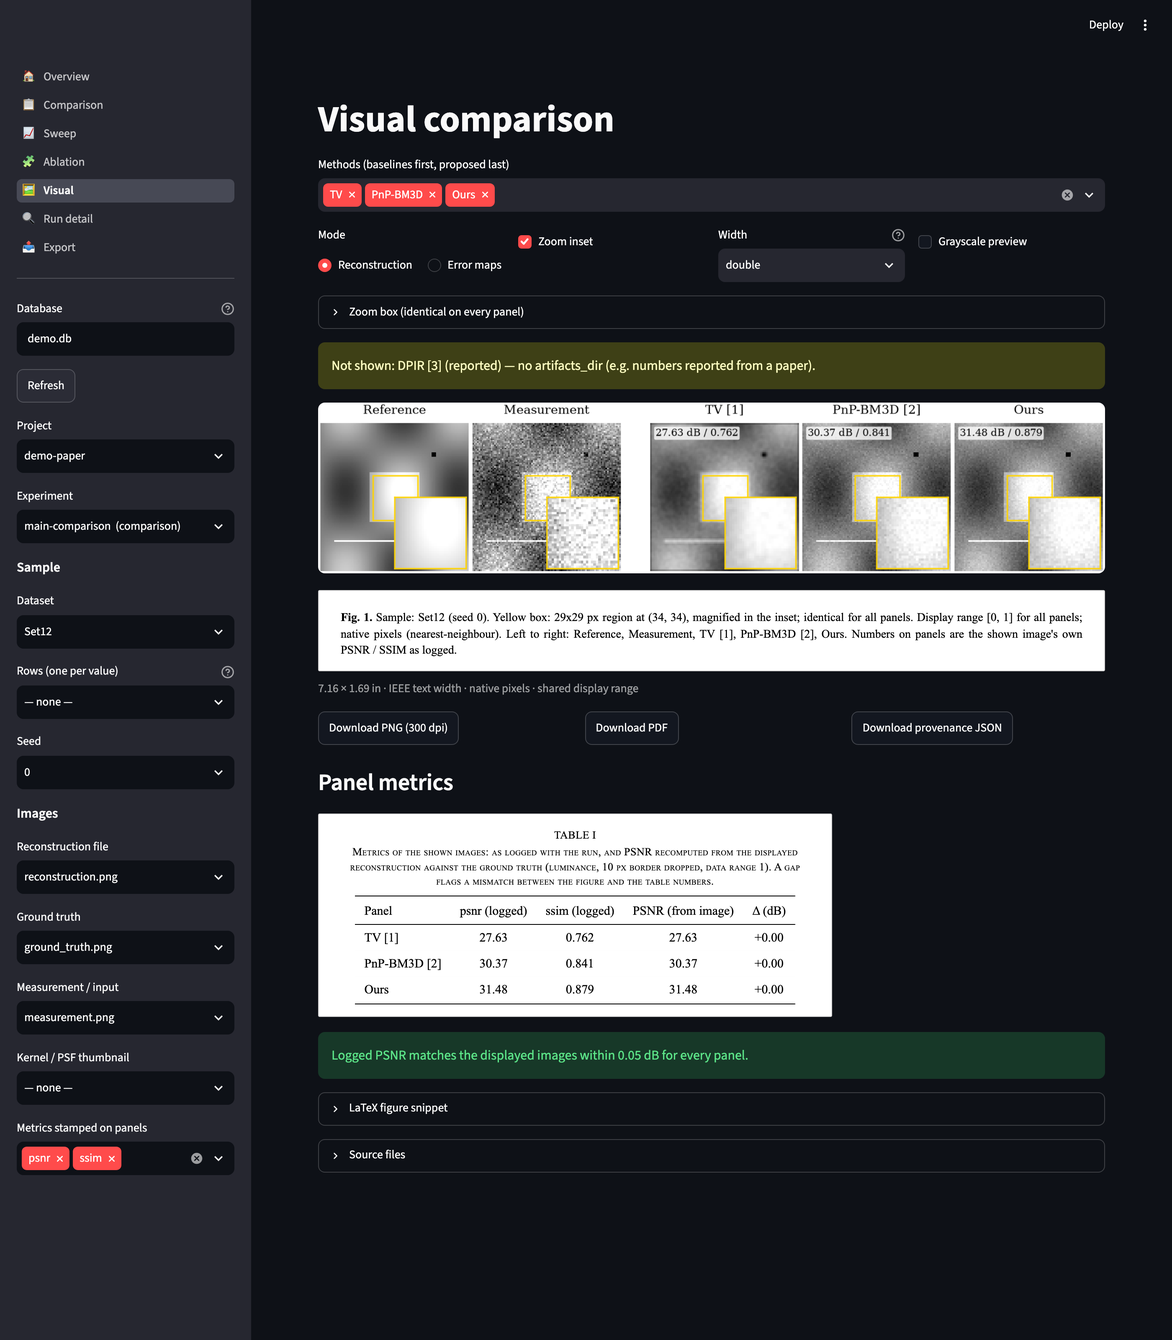
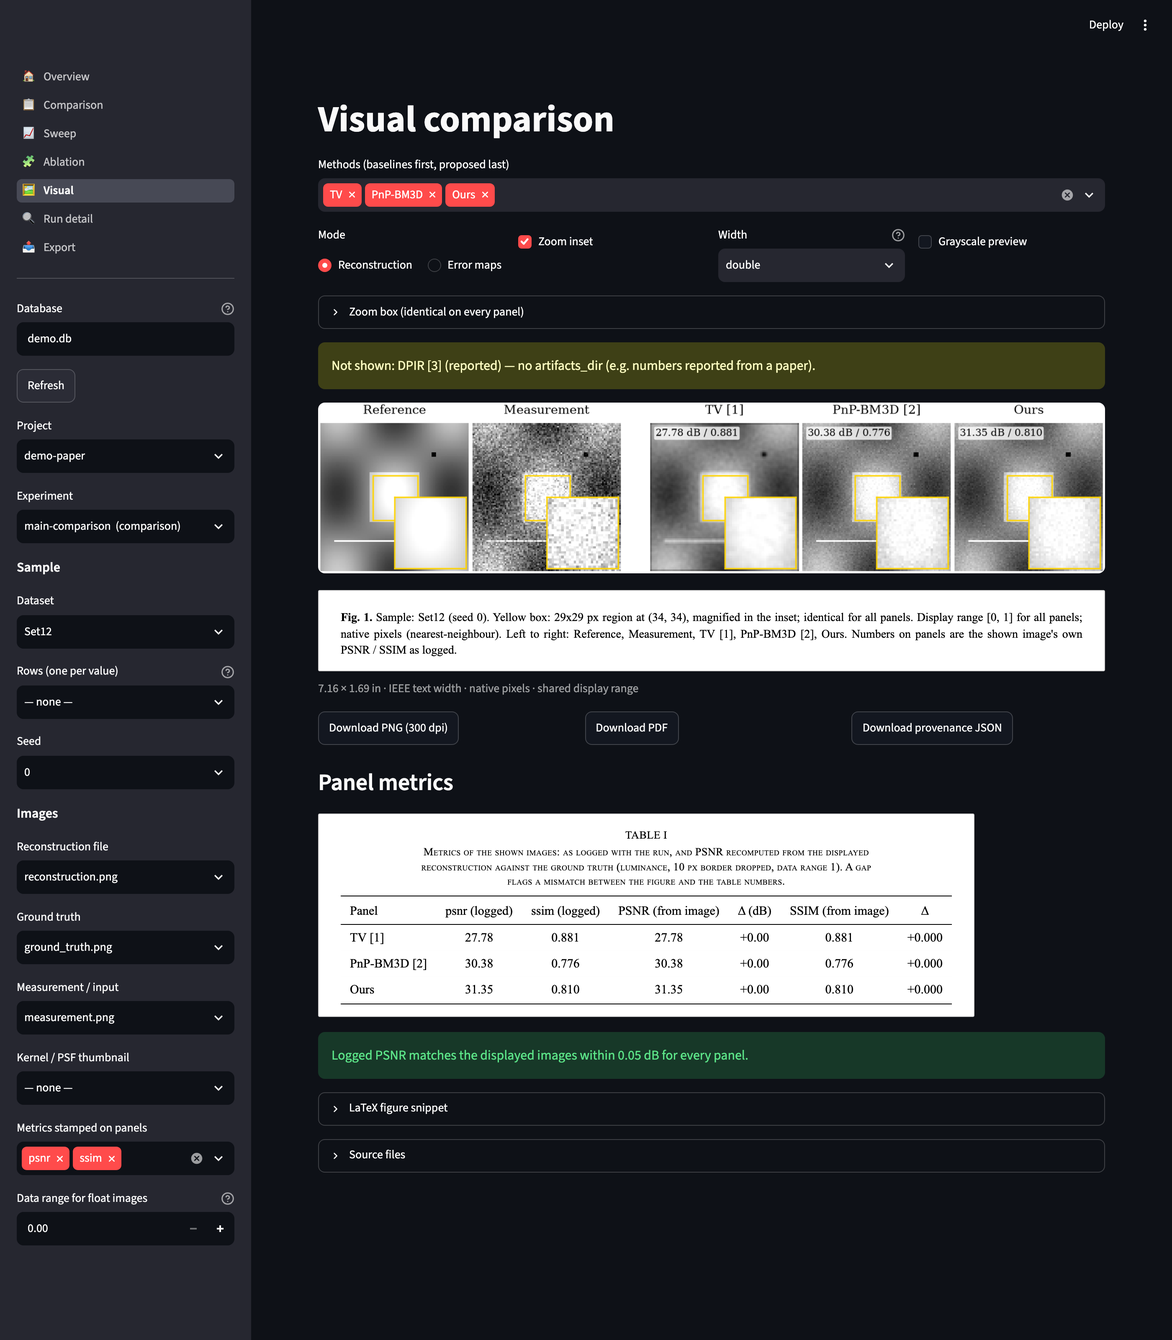
fix(low): failed-runs toggle, local timestamps, bool metrics, SSIM
- Comparison page: the inconsistent 'Include failed runs' toggle is gone;
  failed runs are counted in the caption and never enter a results table
- run_records returns timezone-aware UTC timestamps; Overview and Run detail
  display local time and say so
- bool metrics are rejected with guidance (flags belong in config/tags, rates
  as explicit 0/1)
- export/visual.ssim: Gaussian-window SSIM (Wang et al. 2004, sigma 1.5,
  K1/K2 0.01/0.03) on luminance; panel_ssim with the lab's border crop; the
  Visual audit table now recomputes SSIM as well as PSNR; the demo logs the
  SSIM measured on the saved image so figures and tables agree
- docs (integration guide, CLAUDE.md) updated; demo data, sample figures,
  screenshots and tour GIF regenerated; 114 tests

diff --git a/src/results_tracker/export/visual.py b/src/results_tracker/export/visual.py
@@ -658,6 +658,43 @@ def panel_psnr(img: np.ndarray, ref: np.ndarray, border: int = METRIC_BORDER_CRO
     return psnr(a, b, data_range)
 
 
+def _gaussian_blur(x: np.ndarray, sigma: float = 1.5, radius: int = 5) -> np.ndarray:
+    """Separable Gaussian filter, 'valid' region (no border padding), like skimage's SSIM window."""
+    t = np.arange(-radius, radius + 1, dtype=np.float64)
+    g = np.exp(-(t**2) / (2 * sigma**2))
+    g /= g.sum()
+    x = x.astype(np.float64)
+    out = np.apply_along_axis(lambda v: np.convolve(v, g, mode="valid"), 0, x)
+    out = np.apply_along_axis(lambda v: np.convolve(v, g, mode="valid"), 1, out)
+    return out
+
+
+def ssim(img: np.ndarray, ref: np.ndarray, data_range: float = 1.0, sigma: float = 1.5, radius: int = 5) -> float:
+    """Mean SSIM on luminance with an 11-tap Gaussian window (sigma 1.5), K1 = 0.01, K2 = 0.03 (Wang et al. 2004).
+
+    Matches skimage.metrics.structural_similarity(gaussian_weights=True, sigma=1.5, use_sample_covariance=False)
+    up to border handling (this implementation drops the window border)."""
+    a, b = luminance(img).astype(np.float64), luminance(ref).astype(np.float64)
+    if a.shape != b.shape:
+        raise ValueError(f"shape mismatch {a.shape} vs {b.shape}")
+    if min(a.shape) < 2 * radius + 1:
+        raise ValueError("image too small for an 11x11 SSIM window")
+    c1, c2 = (0.01 * data_range) ** 2, (0.03 * data_range) ** 2
+    mu_a, mu_b = _gaussian_blur(a, sigma, radius), _gaussian_blur(b, sigma, radius)
+    var_a = _gaussian_blur(a * a, sigma, radius) - mu_a**2
+    var_b = _gaussian_blur(b * b, sigma, radius) - mu_b**2
+    cov = _gaussian_blur(a * b, sigma, radius) - mu_a * mu_b
+    num = (2 * mu_a * mu_b + c1) * (2 * cov + c2)
+    den = (mu_a**2 + mu_b**2 + c1) * (var_a + var_b + c2)
+    return float(np.mean(num / den))
+
+
+def panel_ssim(img: np.ndarray, ref: np.ndarray, border: int = METRIC_BORDER_CROP, data_range: float = 1.0) -> float:
+    a, b = luminance(img), luminance(ref)
+    bc = border if min(a.shape) > 2 * border + 12 else 0
+    return ssim(a[bc:a.shape[0] - bc, bc:a.shape[1] - bc], b[bc:b.shape[0] - bc, bc:b.shape[1] - bc], data_range)
+
+
 def panel_metrics_rows(
     records: Sequence[Mapping[str, Any]],
     panels: Sequence[Panel],
@@ -665,14 +702,18 @@ def panel_metrics_rows(
     defs: Mapping[str, Mapping[str, Any]],
     metrics: Sequence[str] = ("psnr", "ssim"),
     tolerance_db: float = 0.05,
+    tolerance_ssim: float = 0.005,
 ) -> tuple[list[str], list[list[str]], list[str]]:
-    """Rows for a 'panel metrics' table: logged metrics per shown run plus PSNR recomputed from the image.
+    """Rows for a 'panel metrics' table: logged metrics per shown run plus PSNR (and SSIM when logged)
+    recomputed from the image.
 
-    Returns (headers, rows, warnings). A gap between logged and recomputed PSNR beyond `tolerance_db` is
+    Returns (headers, rows, warnings). A gap between logged and recomputed values beyond the tolerances is
     flagged: it usually means the logged number was computed on a different image, crop or data range."""
     by_id = {r.get("run_id"): r for r in records if r.get("run_id") is not None}
     by_title = {(r.get("method_label") or r.get("method")): r for r in records}
-    headers = ["Panel"] + [f"{m} (logged)" for m in metrics] + (["PSNR (from image)", "Δ (dB)"] if reference is not None else [])
+    want_ssim = reference is not None and "ssim" in metrics
+    headers = ["Panel"] + [f"{m} (logged)" for m in metrics] + (["PSNR (from image)", "Δ (dB)"] if reference is not None else []) \
+        + (["SSIM (from image)", "Δ"] if want_ssim else [])
     rows: list[list[str]] = []
     warnings: list[str] = []
     for p in panels:
@@ -707,5 +748,21 @@ def panel_metrics_rows(
                 if abs(d) > tolerance_db:
                     warnings.append(f"{p.title}: logged PSNR {float(lv):.2f} dB vs {comp:.2f} dB recomputed from the shown image "
                                     f"(Δ {d:+.2f} dB). Different image, crop, border or data range?")
+            if want_ssim:
+                try:
+                    cs = panel_ssim(p.image, reference.image)
+                except ValueError:
+                    row += ["—", "—"]
+                else:
+                    row.append(f"{cs:.3f}")
+                    ls = logged.get("ssim")
+                    if ls is None:
+                        row.append("—")
+                    else:
+                        ds = cs - float(ls)
+                        row.append(f"{ds:+.3f}")
+                        if abs(ds) > tolerance_ssim:
+                            warnings.append(f"{p.title}: logged SSIM {float(ls):.3f} vs {cs:.3f} recomputed from the shown image "
+                                            f"(Δ {ds:+.3f}). Different implementation, window or data range?")
         rows.append(row)
     return headers, rows, warnings

diff --git a/tests/test_visual.py b/tests/test_visual.py
@@ -10,7 +10,8 @@ from results_tracker import aggregate as agg  # noqa: E402
 from results_tracker.export.figures import figure_tex, ieee_preamble, to_grayscale_png, figure_bytes  # noqa: E402
 from results_tracker.export.visual import (  # noqa: E402
     IEEE_TEXTWIDTH_IN, Panel, PanelRow, build_panels, build_rows, crop, error_map, list_image_files, load_image,
-    guess_roles, luminance, panel_metrics_rows, panel_psnr, psnr, reconstruction_figure, save_visual, zoom_region,
+    guess_roles, luminance, panel_metrics_rows, panel_psnr, panel_ssim, psnr, reconstruction_figure, save_visual, ssim,
+    zoom_region,
 )
 
 DEFS = {"psnr": {"unit": "dB", "higher_is_better": True, "fmt": ".2f"}, "ssim": {"unit": "", "higher_is_better": True, "fmt": ".3f"}}
@@ -240,10 +241,11 @@ def test_panel_psnr_and_metrics_rows(art):
     with pytest.raises(ValueError):
         panel_psnr(ref.image, ref.image[:10])
     headers, rows, warns = panel_metrics_rows(recs, panels, ref, DEFS, metrics=["psnr", "ssim"])
-    assert headers == ["Panel", "psnr (logged)", "ssim (logged)", "PSNR (from image)", "Δ (dB)"]
+    assert headers == ["Panel", "psnr (logged)", "ssim (logged)", "PSNR (from image)", "Δ (dB)", "SSIM (from image)", "Δ"]
     assert [r[0] for r in rows] == ["TV [1]", "Ours"] and rows[0][1] == "30.00" and rows[0][2] == "0.900"
-    # the fixture's logged numbers are invented, so they must be flagged against the recomputed ones
-    assert len(warns) == 2 and all("recomputed" in w for w in warns)
+    # the fixture's logged numbers are invented, so PSNR and SSIM must both be flagged against the recomputed ones
+    assert len([w for w in warns if "PSNR" in w]) == 2 and len([w for w in warns if "SSIM" in w]) == 2
+    assert all("recomputed" in w for w in warns)
     # no reference -> no computed columns, no warnings
     h2, r2, w2 = panel_metrics_rows(recs, panels, None, DEFS, metrics=["psnr"])
     assert h2 == ["Panel", "psnr (logged)"] and len(r2[0]) == 2 and w2 == []
@@ -262,3 +264,29 @@ def test_make_visual_records_the_seed_and_flags_mixed_seeds(art, tmp_path):
     two[1] = {**two[1], "seed": 1}
     vr2 = make_visual(two, DEFS, dataset="D")
     assert vr2.spec.seed is None and any("different seeds" in p for p in vr2.problems)
+
+
+def test_ssim_properties():
+    rng = np.random.default_rng(0)
+    img = np.clip(0.5 + 0.3 * np.sin(np.linspace(0, 8, 64))[None, :] * np.cos(np.linspace(0, 6, 64))[:, None], 0, 1)
+    assert ssim(img, img) == pytest.approx(1.0)
+    noisy_small = np.clip(img + rng.normal(0, 0.02, img.shape), 0, 1)
+    noisy_big = np.clip(img + rng.normal(0, 0.15, img.shape), 0, 1)
+    s_small, s_big = ssim(noisy_small, img), ssim(noisy_big, img)
+    assert 1.0 > s_small > s_big > 0.0
+    shifted = np.roll(img, 7, axis=1)  # same content, misaligned: structure lost, scores below even heavy noise
+    assert ssim(shifted, img) < s_small  # structure matters more than a little noise
+    assert ssim(np.stack([img] * 3, axis=2), img) == pytest.approx(1.0)  # RGB vs gray via luminance
+    with pytest.raises(ValueError):
+        ssim(img, img[:10])
+    with pytest.raises(ValueError):
+        ssim(np.zeros((8, 8)), np.zeros((8, 8)))  # too small for the window
+    assert 0 < panel_ssim(noisy_small, img) <= 1
+
+
+def test_panel_metrics_include_ssim_when_logged(art):
+    _, recs = art
+    panels, ref, _ = _panels(art)
+    headers, rows, warns = panel_metrics_rows(recs, panels, ref, DEFS, metrics=["psnr", "ssim"])
+    assert headers[-2:] == ["SSIM (from image)", "Δ"] and all(len(r) == len(headers) for r in rows)
+    assert any("SSIM" in w for w in warns)  # the fixture's invented ssim of 0.9 does not match the image

diff --git a/src/results_tracker/demo.py b/src/results_tracker/demo.py
@@ -49,7 +49,7 @@ def _scene(dataset: str, seed: int, n: int = 96):
     return np.clip(gt, 0, 1), np.random.default_rng(hash((dataset, seed)) % (2**32))
 
 
-def _write_artifacts(root: Path, method: str, dataset: str, seed: int, psnr: float, rng: random.Random) -> tuple[str, float]:
+def _write_artifacts(root: Path, method: str, dataset: str, seed: int, psnr: float, rng: random.Random) -> tuple[str, float, float]:
     """Reconstruction / error map / measurement / ground truth PNGs plus a log, all from one shared scene.
 
     The measurement and ground truth are identical across methods for a given dataset, so the Visual page
@@ -64,7 +64,7 @@ def _write_artifacts(root: Path, method: str, dataset: str, seed: int, psnr: flo
         from PIL import Image
     except ImportError:  # pragma: no cover
         (d / "log.txt").write_text(f"{method} on {dataset}, seed {seed}\nfinal psnr {psnr:.2f}\n")
-        return str(d), psnr
+        return str(d), psnr, 0.75 + (psnr - 27) * 0.03
 
     def save(arr, name):
         Image.fromarray((np.clip(arr, 0, 1) * 255).round().astype("uint8")).save(d / name)
@@ -83,14 +83,16 @@ def _write_artifacts(root: Path, method: str, dataset: str, seed: int, psnr: flo
     save(recon, "reconstruction.png")
     save(np.abs(recon - gt) / 0.3, "error_map.png")
     # the number we log is the one a reader can recompute from the files: 8-bit images, 10 px border dropped
-    from .export.visual import load_image, panel_psnr
+    from .export.visual import load_image, panel_psnr, panel_ssim
 
-    measured = panel_psnr(load_image(d / "reconstruction.png"), load_image(d / "ground_truth.png"))
+    rec_img, gt_img = load_image(d / "reconstruction.png"), load_image(d / "ground_truth.png")
+    measured = panel_psnr(rec_img, gt_img)
+    measured_ssim = panel_ssim(rec_img, gt_img)
     lines = [f"method={method} dataset={dataset} seed={seed}", "iter  psnr"]
     for it in range(0, 51, 10):
         lines.append(f"{it:4d}  {measured - (50 - it) * 0.05:.2f}")
     (d / "train.log").write_text("\n".join(lines) + "\n")
-    return str(d), measured
+    return str(d), measured, measured_ssim
 
 
 def seed_demo(db=None, engine=None, rng_seed: int = 0, artifacts_dir: Optional[str] = None) -> dict[str, int]:
@@ -117,12 +119,13 @@ def seed_demo(db=None, engine=None, rng_seed: int = 0, artifacts_dir: Optional[s
             for s in SEEDS:
                 psnr = base_psnr[m] + (0.4 if ds == "Set12" else -0.3) + rng.gauss(0, 0.15)
                 art = None
+                ssim_val = 0.75 + (psnr - 27) * 0.03 + rng.gauss(0, 0.005)
                 if art_root:
-                    art, psnr = _write_artifacts(art_root, m, ds, s, psnr, rng)  # log what the image on disk shows
+                    art, psnr, ssim_val = _write_artifacts(art_root, m, ds, s, psnr, rng)  # log what the image on disk shows
                 log_run(
                     "main-comparison", project=PROJECT, experiment_type="comparison",
                     method=m, dataset=ds, seed=s, config={"lambda": 0.1, "iters": 50},
-                    metrics={"psnr": psnr, "ssim": 0.75 + (psnr - 27) * 0.03 + rng.gauss(0, 0.005),
+                    metrics={"psnr": psnr, "ssim": ssim_val,
                              "runtime_s": base_time[m] * (1 + rng.uniform(-0.1, 0.1))},
                     artifacts_dir=art, **common,
                 )

diff --git a/src/results_tracker/api.py b/src/results_tracker/api.py
@@ -12,7 +12,7 @@ import math
 import socket
 import subprocess
 import warnings
-from datetime import datetime
+from datetime import datetime, timezone
 from numbers import Number
 from typing import Any, Iterable, Optional, Sequence, Type, TypeVar, Union
 
@@ -124,6 +124,8 @@ def _clean_metrics(metrics: Optional[dict]) -> dict[str, Any]:
     out: dict[str, Any] = {}
     for k, v in (metrics or {}).items():
         v = _to_plain(v)
+        if isinstance(v, bool):
+            raise TypeError(f"metric {k!r} is a bool; log flags in `config`/`tags`, or an explicit 0/1 (int) if you mean a rate")
         if v is not None and not isinstance(v, Number):
             raise TypeError(f"metric {k!r} must be numeric or None, got {type(v).__name__}")
         out[str(k)] = v
@@ -333,6 +335,9 @@ def run_records(runs: Iterable[Run], db=None, engine=None) -> list[dict[str, Any
         m = methods.get(r.method_id)
         d = datasets.get(r.dataset_id)
         e = experiments.get(r.experiment_id)
+        ts = r.timestamp
+        if ts is not None and ts.tzinfo is None:
+            ts = ts.replace(tzinfo=timezone.utc)  # stored in UTC; SQLite drops the zone
         out.append(
             {
                 "run_id": r.id,
@@ -349,7 +354,7 @@ def run_records(runs: Iterable[Run], db=None, engine=None) -> list[dict[str, Any
                 "status": r.status.value if isinstance(r.status, RunStatus) else r.status,
                 "source": r.source,
                 "tags": list(r.tags or []),
-                "timestamp": r.timestamp,
+                "timestamp": ts,
                 "git_commit": r.git_commit,
                 "artifacts_dir": r.artifacts_dir,
                 "notes": r.notes,

diff --git a/src/results_tracker/ui/comparison.py b/src/results_tracker/ui/comparison.py
@@ -54,20 +54,18 @@ def render() -> None:
         metrics = st.multiselect("Metrics", all_metrics, default=all_metrics)
         show_std = st.checkbox("Show ± std", value=True)
         show_n = st.checkbox("Show n", value=True)
-        include_failed = st.checkbox("Include failed runs", value=False)
 
     if not group_by or not metrics:
         st.warning("Pick at least one grouping key and one metric.")
         return
 
-    pool = recs if include_failed else agg.completed(recs)
+    pool = agg.completed(recs)  # failed runs never enter a results table; they are counted on the Overview
+    n_failed = sum(r["status"] == "failed" for r in recs)
     ct = agg.comparison_table(pool, group_by=group_by, metrics=metrics, higher_is_better=hib_map(defs))
-    if include_failed:
-        # comparison_table filters failed runs itself; rebuild with everything if asked
-        ct = agg.ComparisonTable(**{**ct.__dict__, "cells": agg.aggregate_metrics(pool, group_by, metrics, only_completed=False)})
 
     n_runs = len(pool)
-    st.caption(f"{experiment} · {n_runs} runs · mean ± std over everything not in the row key · **bold** best, <u>underlined</u> second", unsafe_allow_html=True)
+    st.caption(f"{experiment} · {n_runs} completed runs" + (f" ({n_failed} failed excluded)" if n_failed else "")
+               + " · mean ± std over everything not in the row key · **bold** best, <u>underlined</u> second", unsafe_allow_html=True)
     for msg in agg.coverage_audit(pool, group_by):
         st.warning("Rows are pooled over different " + msg)
     if len(group_by) <= 2:

diff --git a/src/results_tracker/ui/overview.py b/src/results_tracker/ui/overview.py
@@ -20,8 +20,10 @@ from .tables import fmt_stat, generic_html
 
 
 def _fmt_ts(ts: Any, with_time: bool = True) -> str:
+    """Local wall-clock time (records carry UTC)."""
     try:
-        return ts.strftime("%Y-%m-%d %H:%M" if with_time else "%Y-%m-%d")
+        local = ts.astimezone() if ts.tzinfo is not None else ts
+        return local.strftime("%Y-%m-%d %H:%M" if with_time else "%Y-%m-%d")
     except Exception:  # noqa: BLE001
         return "—"
 
@@ -113,7 +115,7 @@ def glance_rows(cat: dict, recs: list[dict], defs: dict) -> list[list[Any]]:
 def recent_rows(recs: list[dict], defs: dict, n: int = 15) -> tuple[list[str], list[list[Any]]]:
     recent = sorted(recs, key=lambda r: r["timestamp"] or 0, reverse=True)[:n]
     metrics = agg.metric_names(recent)[:4]
-    headers = ["#", "logged", "experiment", "method", "dataset", "seed", "status"] + [display_metric_name(m) for m in metrics]
+    headers = ["#", "logged (local time)", "experiment", "method", "dataset", "seed", "status"] + [display_metric_name(m) for m in metrics]
     rows = []
     for r in recent:
         vals = []

diff --git a/tests/test_api.py b/tests/test_api.py
@@ -154,3 +154,19 @@ def test_failed_duplicate_is_superseded_by_a_rerun(engine):
     r = log_run("e", method="A", dataset="D", seed=0, config={"k": 1}, metrics={"psnr": 30}, git_commit=None, engine=engine)
     runs = get_runs(engine=engine)
     assert len(runs) == 1 and runs[0].id == r.id and runs[0].status.value == "completed"
+
+
+def test_bool_metrics_are_rejected(engine):
+    with pytest.raises(TypeError, match="bool"):
+        log_run("e", metrics={"converged": True}, git_commit=None, engine=engine)
+    r = log_run("e", metrics={"converged": 1}, git_commit=None, engine=engine)  # explicit 0/1 is fine
+    assert r.metrics == {"converged": 1}
+
+
+def test_record_timestamps_are_timezone_aware_utc(engine):
+    from datetime import timezone
+
+    log_run("e", metrics={"x": 1}, git_commit=None, engine=engine)
+    rec = run_records(get_runs(engine=engine), engine=engine)[0]
+    assert rec["timestamp"].tzinfo is not None and rec["timestamp"].utcoffset().total_seconds() == 0
+    assert rec["timestamp"].astimezone().tzinfo is not None  # convertible to local time for display

diff --git a/src/results_tracker/ui/run_detail.py b/src/results_tracker/ui/run_detail.py
@@ -126,8 +126,8 @@ def render() -> None:
     meta[1].metric("Source", run["source"])
     meta[2].metric("Seed", "—" if run["seed"] is None else run["seed"])
     meta[3].metric("Commit", (run["git_commit"] or "—")[:8])
-    ts = run["timestamp"]
-    meta[4].metric("Logged", ts.strftime("%Y-%m-%d") if ts else "—", help=ts.strftime("%H:%M:%S") if ts else None)
+    ts = run["timestamp"].astimezone() if run["timestamp"] is not None and run["timestamp"].tzinfo else run["timestamp"]
+    meta[4].metric("Logged", ts.strftime("%Y-%m-%d") if ts else "—", help=ts.strftime("%H:%M:%S local") if ts else None)
     if run["tags"]:
         st.caption("tags: " + ", ".join(f"`{t}`" for t in run["tags"]))
     if run["notes"]:

diff --git a/docs/INTEGRATION.md b/docs/INTEGRATION.md
@@ -152,6 +152,12 @@ Rules of thumb:
   one instance.
 - Git commit and hostname are captured automatically. Pass `git_commit=None`
   to opt out (e.g. in tests).
+- **Re-running a script is safe.** A run with the same experiment, method,
+  dataset, instance, seed and config is a duplicate *setting*: by default
+  `log_run` keeps the existing completed run (with a `DuplicateRunWarning`) so
+  n never inflates, and replaces a failed one. Use `on_duplicate="replace"` to
+  overwrite, `"allow"` for deliberate repeats without a seed, `"error"` to be
+  strict. Booleans are not metrics; log flags in `config` or as explicit 0/1.
 
 ### Hydra / OmegaConf
 
@@ -252,17 +258,22 @@ results-tracker ui                         # uses $RESULTS_TRACKER_DB
 
 - **Overview** — is everything there? Failed runs are counted, not hidden. The
   "results at a glance" table is the paper's story in three lines.
-- **Comparison** — check the audit note on the Export page before trusting a
-  table: `7/8 cells present, 1 missing` means a method was never run on a
-  dataset.
+- **Comparison** — check the audit before trusting a table: `7/8 cells
+  present, 1 missing` means a method was never run on a dataset, and "rows
+  pooled over different datasets" means a pooled mean compares methods on
+  different data. With several datasets the page keeps dataset as a row key by
+  default for that reason.
 - **Sweep** — the sensitivity table tells you whether the chosen default sits
   on a plateau or on a knife edge.
 - **Ablation** — the effect-size verdict tells you which deltas the paper can
   claim; "within noise" means run more seeds or drop the claim.
-- **Visual** — the panel-metrics table recomputes PSNR from the images on disk
-  and flags any panel that disagrees with its logged number by more than
-  0.05 dB. A mismatch usually means a figure was regenerated from a different
-  checkpoint than the table.
+- **Visual** — the panel-metrics table recomputes PSNR and SSIM from the
+  images on disk and flags any panel that disagrees with its logged number by
+  more than 0.05 dB or 0.005. A mismatch usually means a figure was regenerated
+  from a different checkpoint than the table. Panels always show the same seed
+  and instance for every method; if no common one exists the page says so.
+  Float images are never rescaled per image: pass a data range shared by all
+  panels.
 
 Every page has a LaTeX expander and a paper-figure expander; the Export page has
 the full set of options (captions, labels, std style, widths).
@@ -347,7 +358,8 @@ many runs — useful as a supplementary artifact.
 | Symptom | Fix |
 |---|---|
 | A metric is ranked the wrong way (best is bold on the worst value) | `results-tracker metric define <name> --lower` (or without `--lower`) |
-| A swept parameter shows up as a metric column | Re-import with `--config-col <name>`, or log it inside `config` |
+| A swept parameter shows up as a metric column | The importer warns about integer columns with few distinct values; re-import with `--config-col <name>`, or log it inside `config` |
+| "ambiguous base" on the Ablation page | No run is tagged `base` and two configs are equally common; tag the full model's runs or pick the base in the sidebar |
 | Two runs of one method share a title in the Visual page | They differ only by seed/instance; pick one in the sidebar or use *Rows* |
 | "Not shown: X — no artifacts_dir" on the Visual page | X was imported without images (e.g. reported); expected |
 | Panel metrics warn about a PSNR gap | The image on disk is not the one the number was computed on; regenerate one of them |

diff --git a/CLAUDE.md b/CLAUDE.md
@@ -7,7 +7,7 @@ them in a Streamlit GUI, export booktabs LaTeX tables and IEEE-sized matplotlib 
 
 ```bash
 source .venv/bin/activate            # or use .venv/bin/<tool> directly
-pytest -q                            # 100 tests, ~8 s
+pytest -q                            # 115 tests, ~9 s
 results-tracker demo --db demo.db --reset --artifacts demo_artifacts
 results-tracker ui --db demo.db      # GUI on http://localhost:8501 (falls back to a free port)
 results-tracker export table -e main-comparison --db demo.db
@@ -38,6 +38,8 @@ python scripts/screenshot.py http://localhost:8501 docs/screenshots   # needs Ch
 ## Conventions
 
 - Aggregation and export functions take plain record dicts so they are testable without a DB.
+- log_run deduplicates on (experiment, method, dataset, instance, seed, config); the importer passes on_duplicate='allow'.
+- Never rescale an image by its own max (shared display range); never pool rows over different dataset sets silently.
 - Metric direction lives in the `Metric` table; guessed from the name on first log, override with
   `results-tracker metric define`.
 - Streamlit widgets: use `width="stretch"` (not the deprecated `use_container_width`).
